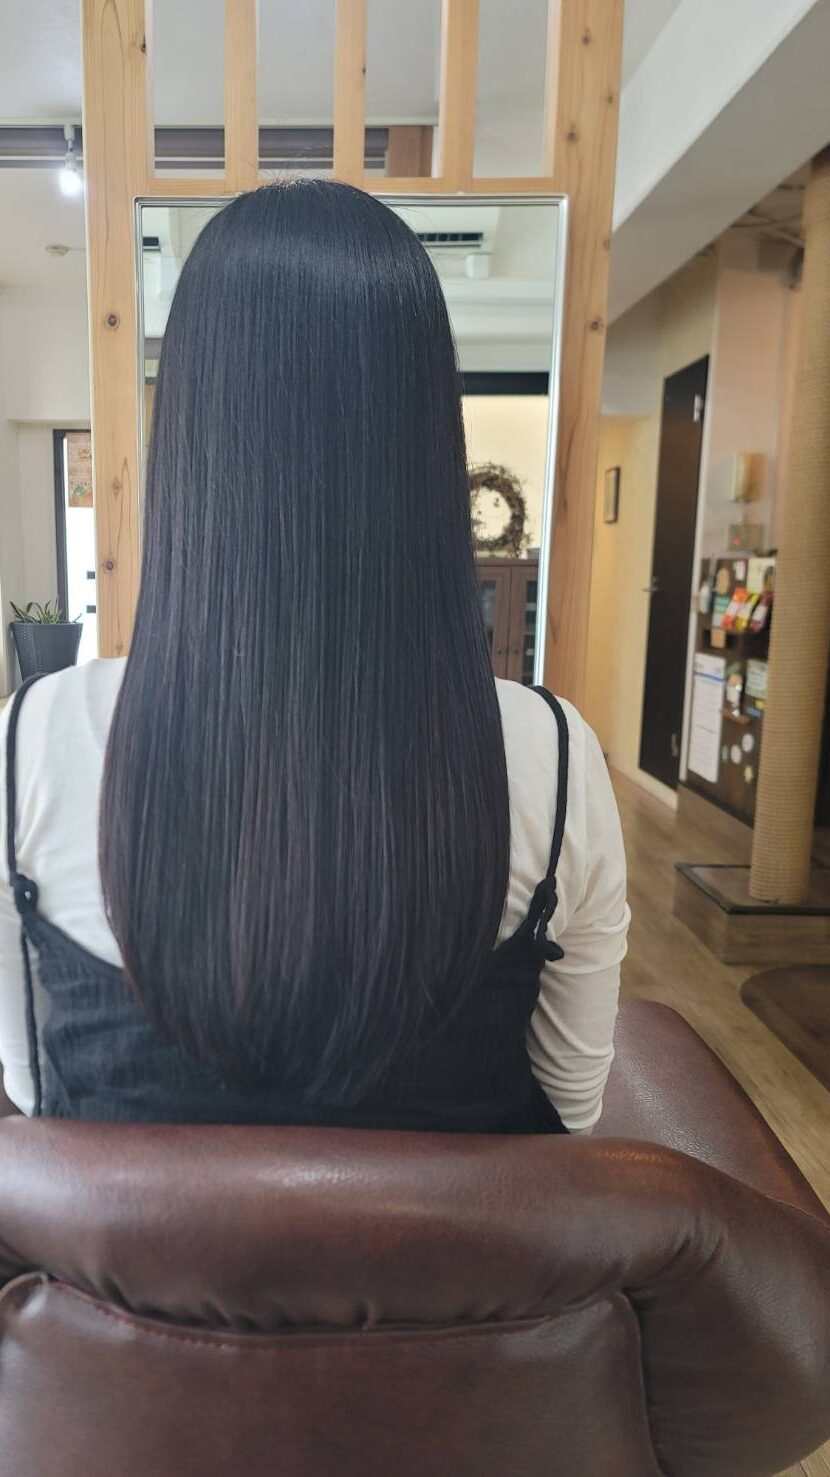
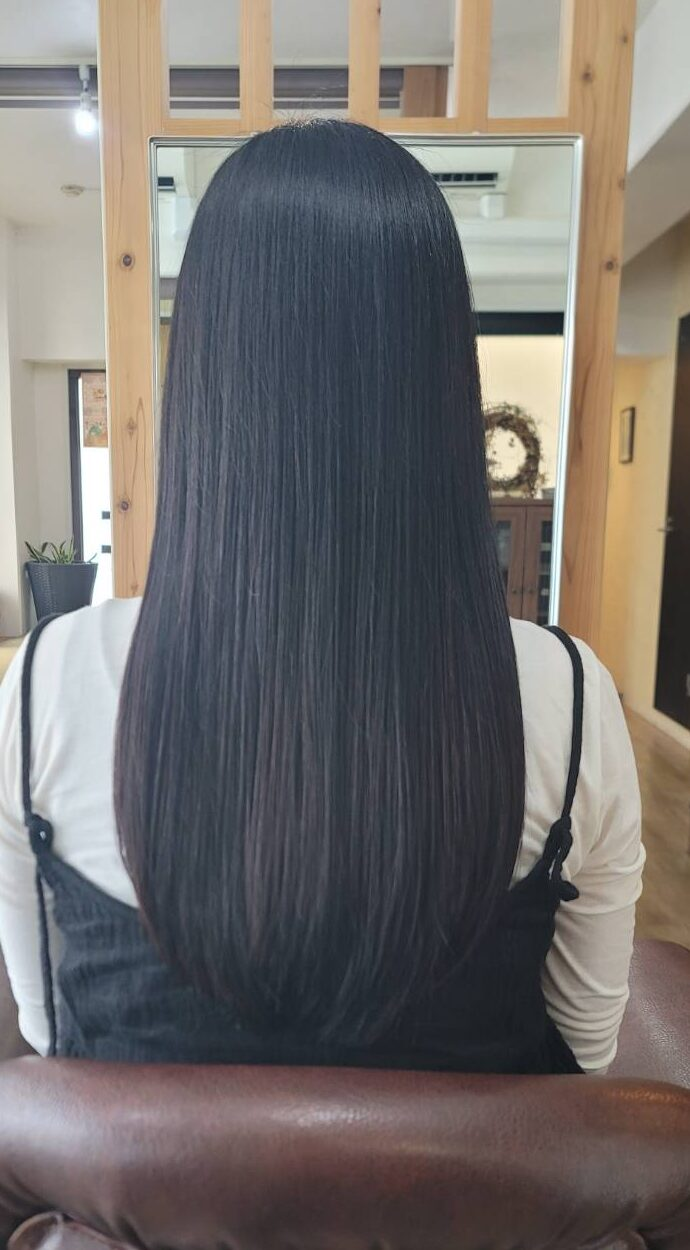
Add files via upload

diff --git a/henna-treatment.html b/henna-treatment.html
@@ -202,6 +202,7 @@
     font-weight: 300;
     max-width: 480px;
     margin: 0 auto;
+    color: var(--cream);
     opacity: .85;
     font-family: 'Noto Sans JP', sans-serif;
   }
@@ -695,7 +696,7 @@
           <p>お湯と石けんシャンプーでしっかり洗い流し、ドライ・スタイリングして完成。ヘナは染めながら髪をコーティングするので、白髪をぼかしながら自然なツヤとまとまりのある仕上がりになります。</p>
           <div class="step-photos">
             <div>
-              <img src="henna-treatment-after.jpg" width="830" height="1477" loading="lazy" decoding="async" alt="ヘナ施術後のツヤのある髪の仕上がり">
+              <img src="henna-treatment-after.jpg" width="690" height="1250" loading="lazy" decoding="async" alt="ヘナ施術後のツヤのある髪の仕上がり">
               <p class="photo-caption">施術後の仕上がり</p>
             </div>
             <div>

diff --git a/henna-home.html b/henna-home.html
@@ -202,6 +202,7 @@
     font-weight: 300;
     max-width: 480px;
     margin: 0 auto;
+    color: var(--cream);
     opacity: .85;
     font-family: 'Noto Sans JP', sans-serif;
   }

diff --git a/soap-shampoo.html b/soap-shampoo.html
@@ -192,6 +192,7 @@
     font-weight: 300;
     max-width: 480px;
     margin: 0 auto;
+    color: var(--cream);
     opacity: .85;
     font-family: 'Noto Sans JP', sans-serif;
   }

diff --git a/henna-topics.html b/henna-topics.html
@@ -179,6 +179,7 @@
     font-weight: 300;
     max-width: 480px;
     margin: 0 auto;
+    color: var(--cream);
     opacity: .85;
     line-height: 1.9;
     text-align: left;

diff --git a/scalp-farm.html b/scalp-farm.html
@@ -180,6 +180,7 @@
     font-weight: 300;
     max-width: 480px;
     margin: 0 auto;
+    color: var(--cream);
     opacity: .85;
     line-height: 1.9;
     text-align: left;

diff --git a/shampoo.html b/shampoo.html
@@ -192,6 +192,7 @@
     font-size: .92rem;
     max-width: 520px;
     margin: 0 auto;
+    color: var(--cream);
     opacity: .88;
     line-height: 2.1;
   }

diff --git a/henna-about.html b/henna-about.html
@@ -183,6 +183,7 @@
     font-weight: 300;
     max-width: 480px;
     margin: 0 auto;
+    color: var(--cream);
     opacity: .85;
     line-height: 1.9;
   }

diff --git a/henna.html b/henna.html
@@ -184,6 +184,7 @@
     font-weight: 300;
     max-width: 480px;
     margin: 0 auto;
+    color: var(--cream);
     opacity: .85;
     line-height: 1.9;
   }
